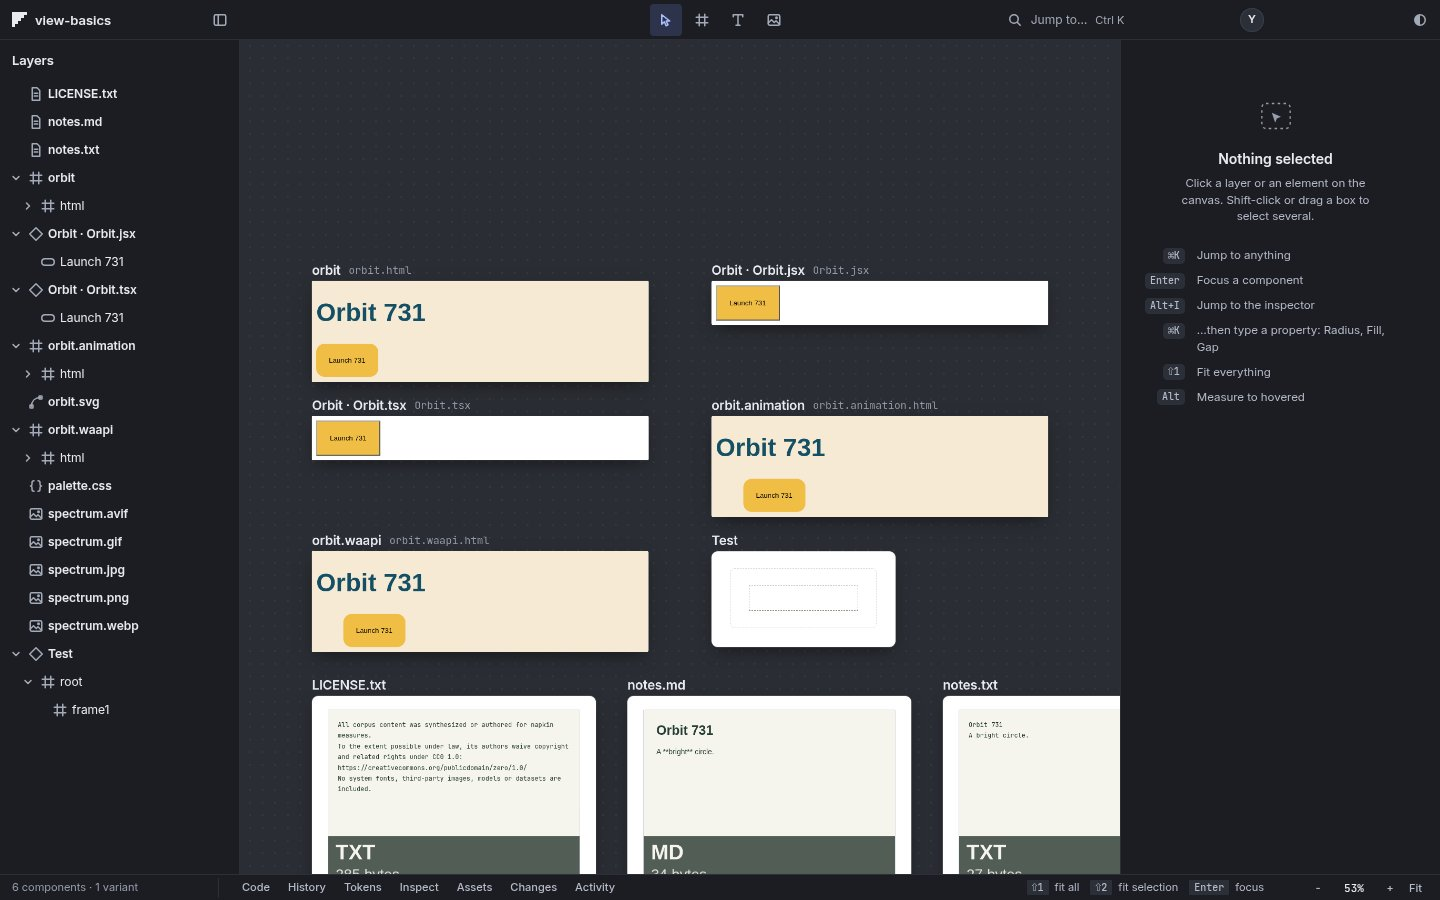
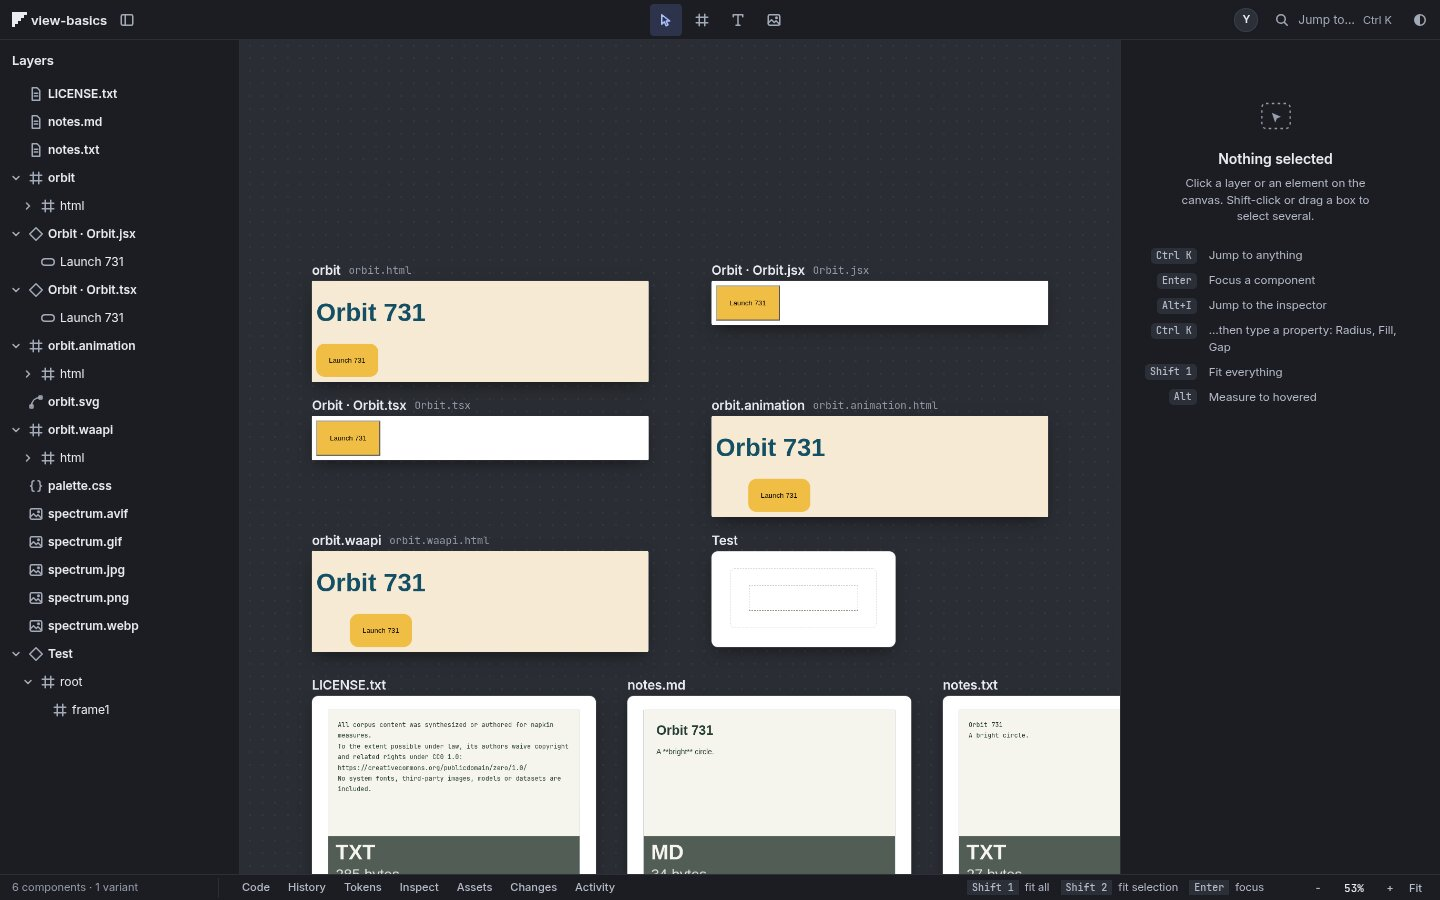
basics pass 1b: right group [people][Jump to][theme], panel button after the folder name, platform key labels
- Top bar right: one right-aligned group flush to the bar padding, the tools' 4 px gap: avatars (overlapping, +N past five),
  Jump to... (control height), theme. No reserved slots; the revision appears at the left end only with a selection.
- Left: glyph, folder name, panel toggle at the same tight gap, panel open or collapsed.
- keylabel.js: one helper for key labels (Ctrl K / Shift 1 on Linux and Windows, symbols on macOS), used by the bar,
  tooltips, layers menu, right-panel hints, status bar, history and legend.
- Screenshots in docs/basics/pass1 retaken.

diff --git a/public/canvas/canvas.css b/public/canvas/canvas.css
@@ -132,14 +132,14 @@ code:where(:not(:is(.mount, .preview-inner) *)) { font-family: var(--nk-mono); }
   grid-area: top; display: grid; grid-template-columns: minmax(max-content, 1fr) auto minmax(max-content, 1fr); align-items: center; column-gap: var(--nk-s4);
   height: var(--nk-h-bar); min-width: 0; padding: 0 var(--nk-s1); /* even sides, so the tools sit on the window's centre line */ background: var(--nk-panel); border-bottom: var(--nk-border);
 }
-.bar-left { display: flex; align-items: center; gap: var(--nk-s2); width: calc(var(--nk-left-w) - 2 * var(--nk-s1)); min-width: 0; padding-left: var(--nk-s2); }
-.brand { display: flex; align-items: center; gap: var(--nk-s2); flex: 1; min-width: 0; margin: 0; font: var(--nk-w-strong) var(--nk-fs-title)/var(--nk-lh-loose) var(--nk-sans); color: var(--nk-ink); }
+.bar-left { display: flex; align-items: center; gap: var(--nk-s1); min-width: 0; padding-left: var(--nk-s2); } /* the panel button follows the folder name, the tools' gap apart, open or closed */
+.brand { display: flex; align-items: center; gap: var(--nk-s1); flex: 0 1 auto; min-width: 0; max-width: calc(var(--nk-left-w) - var(--nk-h-control) - var(--nk-s3)); margin: 0; font: var(--nk-w-strong) var(--nk-fs-title)/var(--nk-lh-loose) var(--nk-sans); color: var(--nk-ink); }
 .brand .glyph { flex: none; color: var(--nk-ink); }
 #folder { min-width: 0; overflow: hidden; text-overflow: ellipsis; white-space: nowrap; }
 #toolbar { display: flex; align-items: center; gap: var(--nk-s1); justify-self: center; min-width: calc(4 * var(--nk-h-control) + 3 * var(--nk-s1)); } /* sized before tools.js fills it: the bar never shifts on load */
-.top-right { display: flex; align-items: center; justify-content: flex-end; gap: var(--nk-s2); min-width: 0; }
+.top-right { display: flex; align-items: center; justify-content: flex-end; gap: var(--nk-s1); min-width: 0; } /* the tools' gap */
 #quick-open {
-  display: inline-flex; align-items: center; gap: var(--nk-s2); height: var(--nk-h-control); padding: 0 var(--nk-s2); margin-right: var(--nk-s2);
+  display: inline-flex; align-items: center; gap: var(--nk-s2); height: var(--nk-h-control); padding: 0 var(--nk-s2);
   border: 0; border-radius: var(--nk-radius); background: transparent; color: var(--nk-ink-muted); font: var(--nk-w-regular) var(--nk-fs-body)/var(--nk-lh-tight) var(--nk-sans);
   transition: background-color var(--nk-motion) var(--nk-ease), color var(--nk-motion) var(--nk-ease);
 }
@@ -149,10 +149,10 @@ code:where(:not(:is(.mount, .preview-inner) *)) { font-family: var(--nk-mono); }
 .meta { display: inline-flex; align-items: baseline; gap: var(--nk-s1); color: var(--nk-ink-muted); font: var(--nk-w-regular) var(--nk-fs-label)/var(--nk-lh-tight) var(--nk-sans); white-space: nowrap; }
 .meta[hidden] { display: none; }
 .meta code { display: inline-block; min-width: 9ch; color: var(--nk-ink-muted); font: var(--nk-w-regular) var(--nk-fs-label)/var(--nk-lh-tight) var(--nk-mono); }
-.slot { display: flex; align-items: center; justify-content: flex-start; gap: var(--nk-s2); flex: 0 1 calc(5 * var(--nk-h-control)); min-width: var(--nk-h-control); }
-/* presence has a fixed place: people arriving fill it left to right, so Jump to... and the revision never move */
-#avatars { max-width: 100%; overflow: hidden; }
-.top-right .meta[hidden] { display: inline-flex; visibility: hidden; } /* nothing selected: the revision keeps its place, so Jump to... never moves */
+/* one right-aligned group, the tools' gap apart: [rev] [people] [Jump to...] [theme]. Whatever comes and goes (the revision with a
+   selection, people joining, up to five avatars then +N) sits at the left end and grows into free space; Jump to... never moves.
+   The slot only carries the live region and the avatars into the group. */
+.slot { display: contents; }
 #token-theme-label { display: inline-flex; align-items: center; gap: var(--nk-s2); color: var(--nk-ink-muted); font: var(--nk-w-regular) var(--nk-fs-label)/var(--nk-lh-tight) var(--nk-sans); white-space: nowrap; }
 #token-theme-label[hidden] { display: none; }
 #token-theme { height: var(--nk-h-field); padding: 0 var(--nk-s1); border: var(--nk-border); border-radius: var(--nk-radius); background: var(--nk-panel); color: var(--nk-ink); font: var(--nk-w-regular) var(--nk-fs-body) var(--nk-sans); }
@@ -218,7 +218,7 @@ body[data-left="closed"] #sidebar { visibility: hidden; border-right-width: 0; }
 
 /* The top bar at 720 to 1100 px: the jump field gives up its words, then the revision goes. Nothing wraps. */
 @media (max-width: 1100px) { #quick-open span, #quick-open kbd { display: none; } #quick-open { width: var(--nk-h-control); padding: 0; justify-content: center; margin-right: 0; } }
-@media (max-width: 860px) { .top-right .meta, .top-right .meta[hidden] { display: none; } }
+@media (max-width: 860px) { .top-right .meta { display: none; } }
 
 /* ---- the canvas ---- */
 #stage {

diff --git a/public/index.html b/public/index.html
@@ -28,13 +28,13 @@
   <header id="topbar">
     <div class="bar-left">
       <h1 class="brand"><svg class="glyph" viewBox="0 0 20 20" width="15" height="15" shape-rendering="crispEdges" aria-hidden="true" fill="currentColor"><path d="M0 0h20v4H0zM0 4h16v4H0zM0 8h12v4H0zM0 12h8v4H0zM0 16h4v4H0z"/></svg><span class="sr-only">napkin: </span><span id="folder">components</span></h1>
-      <button type="button" class="icon-btn" id="panel-toggle" aria-controls="sidebar" aria-expanded="true" aria-keyshortcuts="Control+Backslash" aria-label="Layers panel" data-tip="Hide layers" data-key="Ctrl \"><svg class="ico" viewBox="0 0 16 16" width="16" height="16" aria-hidden="true"><rect x="2.25" y="2.75" width="11.5" height="10.5" rx="1.5"/><path d="M6.25 2.75v10.5"/></svg></button>
+      <button type="button" class="icon-btn" id="panel-toggle" aria-controls="sidebar" aria-expanded="true" aria-keyshortcuts="Control+Backslash" aria-label="Layers panel" data-tip="Hide layers" data-key="Ctrl+\"><svg class="ico" viewBox="0 0 16 16" width="16" height="16" aria-hidden="true"><rect x="2.25" y="2.75" width="11.5" height="10.5" rx="1.5"/><path d="M6.25 2.75v10.5"/></svg></button>
     </div>
     <div id="toolbar"></div>
     <div class="top-right">
-      <button type="button" id="quick-open" aria-haspopup="dialog" aria-keyshortcuts="Control+K Meta+K"><svg class="ico" viewBox="0 0 16 16" width="16" height="16" aria-hidden="true"><circle cx="7" cy="7" r="4.25"/><path d="m10.25 10.25 3 3"/></svg><span>Jump to…</span><kbd>Ctrl K</kbd></button>
-      <span class="meta" title="The selected file’s revision">rev <code id="revision">…</code></span>
+      <span class="meta" hidden title="The selected file’s revision">rev <code id="revision">…</code></span>
       <span class="slot"><span id="agent-status" hidden>agent connected</span><span id="presence" role="status" aria-live="polite"></span></span>
+      <button type="button" id="quick-open" aria-haspopup="dialog" aria-keyshortcuts="Control+K Meta+K"><svg class="ico" viewBox="0 0 16 16" width="16" height="16" aria-hidden="true"><circle cx="7" cy="7" r="4.25"/><path d="m10.25 10.25 3 3"/></svg><span>Jump to…</span><kbd data-keys="Mod+K">Ctrl K</kbd></button>
       <button type="button" class="icon-btn" id="theme-toggle" aria-label="Switch chrome theme" data-tip="Light or dark chrome"><svg class="ico" viewBox="0 0 16 16" width="16" height="16" aria-hidden="true"><circle cx="8" cy="8" r="5.25"/><path d="M8 2.75a5.25 5.25 0 0 0 0 10.5z" fill="currentColor" stroke="none"/></svg></button>
     </div>
   </header>
@@ -63,12 +63,12 @@
   <footer id="statusbar">
     <span id="counts" aria-live="off"></span>
     <span id="drawer-tabs" role="group" aria-label="Panels"></span>
-    <span class="hints"><span class="h"><kbd>⇧1</kbd> fit all</span> <span class="h"><kbd>⇧2</kbd> fit selection</span> <span class="h"><kbd>Enter</kbd> focus</span></span>
+    <span class="hints"><span class="h"><kbd data-keys="Shift+1">Shift 1</kbd> fit all</span> <span class="h"><kbd data-keys="Shift+2">Shift 2</kbd> fit selection</span> <span class="h"><kbd>Enter</kbd> focus</span></span>
     <span class="zoomctl" role="group" aria-label="Zoom">
       <button type="button" id="zoom-out" aria-label="Zoom out" title="Zoom out (−)">−</button>
-      <button type="button" id="zoom-level" aria-label="Zoom level, click for 100%" title="Zoom to 100% (⇧0)">100%</button>
+      <button type="button" id="zoom-level" aria-label="Zoom level, click for 100%" title="Zoom to 100% ({k})" data-title-keys="Shift+0">100%</button>
       <button type="button" id="zoom-in" aria-label="Zoom in" title="Zoom in (+)">+</button>
-      <button type="button" id="zoom-fit" aria-label="Fit all" title="Fit all (⇧1)">Fit</button>
+      <button type="button" id="zoom-fit" aria-label="Fit all" title="Fit all ({k})" data-title-keys="Shift+1">Fit</button>
     </span>
   </footer>
   <script src="/canvas/early.js"></script>

diff --git a/public/canvas/layers.js b/public/canvas/layers.js
@@ -1,5 +1,6 @@
 // The layers tree (CAN-04): every component, and under it the JSX tree of its nodes, as the file has it.
 // Selection syncs both ways. Rename (F2 / double-click) is one `rename` edit; dragging a row is one `move`.
+import { keyLabel } from './keylabel.js';
 import { index, VOID } from '/src/model.js';
 
 const esc = (s) => String(s).replace(/[&<>"]/g, (c) => ({ '&': '&amp;', '<': '&lt;', '>': '&gt;', '"': '&quot;' })[c]);
@@ -171,7 +172,7 @@ export function initLayers(ctx, el) {
     const isRoot = c?.doc?.root.id === row.dataset.node, ro = !!c?.readOnly;
     const hid = (c?.doc && index(c.doc).byId.get(row.dataset.node)?.style?.visibility === 'hidden');
     const off = (why) => (ro || why ? ` disabled title="${why || 'This file is read-only'}"` : '');
-    menu.innerHTML = `<button type="button" role="menuitem" data-do="rename"${off('')}>Rename<kbd>F2</kbd></button><button type="button" role="menuitem" data-do="duplicate"${off(isRoot ? "The root can't be duplicated" : '')}>Duplicate<kbd>⌘D</kbd>${isRoot ? '<small>The root can’t be duplicated</small>' : ''}</button><button type="button" role="menuitem" data-do="copy"${isRoot ? ' disabled title="The root can\'t be copied"' : ''}>Copy<kbd>⌘C</kbd></button><button type="button" role="menuitem" data-do="hide"${off('')}>${hid ? 'Show' : 'Hide'}</button><button type="button" role="menuitem" data-do="delete"${off(isRoot ? "The root can't be deleted" : '')}>Delete${isRoot ? '<small>The root can’t be deleted</small>' : '<kbd>⌫</kbd>'}</button>`;
+    menu.innerHTML = `<button type="button" role="menuitem" data-do="rename"${off('')}>Rename<kbd>F2</kbd></button><button type="button" role="menuitem" data-do="duplicate"${off(isRoot ? "The root can't be duplicated" : '')}>Duplicate<kbd>${keyLabel('Mod+D')}</kbd>${isRoot ? '<small>The root can’t be duplicated</small>' : ''}</button><button type="button" role="menuitem" data-do="copy"${isRoot ? ' disabled title="The root can\'t be copied"' : ''}>Copy<kbd>${keyLabel('Mod+C')}</kbd></button><button type="button" role="menuitem" data-do="hide"${off('')}>${hid ? 'Show' : 'Hide'}</button><button type="button" role="menuitem" data-do="delete"${off(isRoot ? "The root can't be deleted" : '')}>Delete${isRoot ? '<small>The root can’t be deleted</small>' : '<kbd>' + keyLabel('Backspace') + '</kbd>'}</button>`;
     const r = btn.getBoundingClientRect();
     Object.assign(menu.style, { left: `${r.right - 164}px`, top: `${r.bottom + 4}px` });
     menu.dataset.component = row.dataset.component; menu.dataset.node = row.dataset.node;
@@ -185,7 +186,7 @@ export function initLayers(ctx, el) {
     else if (b.dataset.do === 'cdelete') ctx.cmpOps.remove(component, { fromRow: true });
     else if (b.dataset.do === 'rename') { const r = el.querySelector(`.lrow[data-component="${CSS.escape(component)}"][data-node="${CSS.escape(node)}"]`); if (r) startRename(r); }
     else if (b.dataset.do === 'duplicate') await ctx.ops.duplicate();
-    else if (b.dataset.do === 'copy') { try { document.execCommand('copy'); } catch {} ctx.hint('Copied. Paste into any component with ⌘V'); }
+    else if (b.dataset.do === 'copy') { try { document.execCommand('copy'); } catch {} ctx.hint('Copied. Paste into any component with ' + keyLabel('Mod+V')); }
     else if (b.dataset.do === 'hide') await ctx.ops.hide();
     else if (b.dataset.do === 'delete') await ctx.sendEdits(component, [{ op: 'delete', id: node }]);
   });

diff --git a/test/basics/shell.test.js b/test/basics/shell.test.js
@@ -74,8 +74,26 @@ test('basics pass 1: the top bar has three zones in order, four tools on the cen
     assert.equal(await b.eval(`document.querySelector('#tip').textContent`), 'FrameF');
     await io.key('Escape');
     assert.equal(await b.eval(`document.querySelector('#tip').hidden`), true, 'Escape hides the tooltip');
-    // the right zone: Jump to..., status, theme; nothing else
-    assert.deepEqual(JSON.parse(await b.eval(`JSON.stringify([...document.querySelectorAll('.top-right > *')].filter((e) => e.getBoundingClientRect().width && getComputedStyle(e).visibility === 'visible').map((e) => e.id || e.className))`)), ['quick-open', 'slot', 'theme-toggle']);
+    // the right zone: one right-aligned group, flush to the bar's padding, the tools' gap: [people] [Jump to...] [theme]; the revision only with a selection, at the left end
+    const group = () => b.eval(`JSON.stringify([...document.querySelectorAll('.top-right > *, .top-right .slot > *')].filter((e) => e.getBoundingClientRect().width && getComputedStyle(e).display !== 'contents').map((e) => { const r = e.getBoundingClientRect(); return { n: e.id || e.className, l: r.left, r: r.right }; }))`).then(JSON.parse);
+    let g = await group();
+    assert.deepEqual(g.map((x) => x.n), ['avatars', 'quick-open', 'theme-toggle']);
+    const jump = g[1].l;
+    assert.equal(g.at(-1).r, 1440 - 4, 'flush to the bar padding');
+    assert.deepEqual(g.slice(1).map((x, i) => x.l - g[i].r), [4, 4], 'the gap of the tools');
+    assert.equal(await b.eval(`document.querySelector('#quick-open kbd').textContent`), 'Ctrl K', 'Linux says Ctrl, not the Command sign');
+    assert.match(await b.eval(`document.querySelector('#panel .keys').textContent`), /Ctrl K/, 'the right-panel hints too');
+    assert.doesNotMatch(await b.eval(`document.querySelector('#panel .keys').textContent + document.querySelector('#statusbar').textContent`), /[⌘⇧⌫]/);
+    await b.eval(`napkin.select({ component: napkin.find('Card').component, node: 'title', variant: {} })`); await sleep(200);
+    g = await group();
+    assert.deepEqual(g.map((x) => x.n), ['meta', 'avatars', 'quick-open', 'theme-toggle'], 'the revision joins at the left end');
+    assert.equal(g[2].l, jump, 'and Jump to... stays put');
+    // the panel button follows the folder name, the tools' gap apart, open or closed
+    for (const state of ['open', 'closed']) {
+      const gap = await b.eval(`document.querySelector('#panel-toggle').getBoundingClientRect().left - document.querySelector('.brand').getBoundingClientRect().right`);
+      assert.equal(gap, 4, `toggle after the folder name (${state})`);
+      await b.eval(`napkin.shell.toggleLeft()`);
+    }
     await b.eval(`document.activeElement.blur()`);
   } finally { await close(); }
 });

diff --git a/public/canvas/shell.js b/public/canvas/shell.js
@@ -1,11 +1,12 @@
 // The shell around the canvas (basics pass 1, docs/basics/standards.md sections 1 and 6): the chrome tooltip and the left panel's
-// collapse. A control with data-tip shows its name (and data-key, its key) after 500 ms of hover, or at once on keyboard focus;
+// collapse. A control with data-tip shows its name (and data-key, its key, as a keylabel.js spec) after 500 ms of hover, or at once on keyboard focus;
 // Escape hides it. The left panel collapses with the bar's panel button or Ctrl+\ (commands.js runs the binding); the canvas takes
 // the width, the picture stays under the same pixels (no animated slide: a moving canvas is harder to follow than a still one),
 // and the choice is remembered.
 //   initShell(ctx) -> ctx.shell = { toggleLeft(open?), leftOpen() }
+import { keyLabel, relabel } from './keylabel.js';
+
 const HOVER_MS = 500;
-const mac = /Mac|iPhone|iPad/.test(navigator.platform || navigator.userAgent);
 
 export function initShell(ctx) {
   const body = document.body, toggle = document.querySelector('#panel-toggle'), side = document.querySelector('#sidebar');
@@ -15,13 +16,12 @@ export function initShell(ctx) {
   tip.id = 'tip'; tip.hidden = true; tip.setAttribute('aria-hidden', 'true'); // the control's own name and aria-keyshortcuts carry this for a screen reader
   body.append(tip);
   let timer = 0, owner = null;
-  const keyText = (k) => (mac ? k.replace(/^Ctrl K$/, '⌘K') : k);
   function show(el) {
     clearTimeout(timer);
     owner = el;
     const key = el.dataset.key;
     tip.replaceChildren(document.createTextNode(el.dataset.tip));
-    if (key) { const k = document.createElement('kbd'); k.textContent = keyText(key); tip.append(k); }
+    if (key) { const k = document.createElement('kbd'); k.textContent = keyLabel(key); tip.append(k); }
     tip.hidden = false;
     const r = el.getBoundingClientRect(), w = tip.offsetWidth;
     tip.style.left = `${Math.round(Math.max(8, Math.min(innerWidth - w - 8, r.left + r.width / 2 - w / 2)))}px`;
@@ -39,8 +39,7 @@ export function initShell(ctx) {
   document.addEventListener('focusin', (ev) => { const el = tipped(ev.target); if (el && el === ev.target && el.matches(':focus-visible')) show(el); else if (owner) hide(); });
   document.addEventListener('focusout', () => { if (owner && !owner.matches(':hover')) hide(); });
   document.addEventListener('keydown', (ev) => { if (ev.key === 'Escape' && !tip.hidden) hide(); });
-  const qk = document.querySelector('#quick-open kbd');
-  if (qk && mac) qk.textContent = '⌘K';
+  relabel(document); // the bar's and the status bar's static key labels follow the platform
 
   // ---- the left panel ----
   let open = true;

diff --git a/public/canvas/panel.js b/public/canvas/panel.js
@@ -4,6 +4,7 @@
 // Every control still writes CSS through ctx.sendEdits: one `set` per property, and one batch per change
 // (several selected nodes = one revision). The panel never writes files. Text typed into a field survives a
 // rebuild (ui.draft) until it is saved.
+import { keyLabel } from './keylabel.js';
 import { plain, stripNext } from './words.js';
 import { renderDocPanel } from './doc-panel.js';
 import { index, axes, resolveStyle, propOf } from '/src/model.js';
@@ -208,7 +209,7 @@ export function renderPanel(ctx) {
   if (!node) {
     el.innerHTML = `<div class="empty-panel"><svg viewBox="0 0 48 48" width="40" height="40" aria-hidden="true"><rect x="7" y="9" width="34" height="30" rx="5" fill="none" stroke="currentColor" stroke-width="1.6" stroke-dasharray="3 4"/><path d="M19 20l11 5-5 2-2 5z" fill="currentColor"/></svg>
       <h2>Nothing selected</h2><p class="hint">Click a layer or an element on the canvas. Shift-click or drag a box to select several.</p>
-      <dl class="keys"><dt><kbd>⌘K</kbd></dt><dd>Jump to anything</dd><dt><kbd>Enter</kbd></dt><dd>Focus a component</dd><dt><kbd>Alt+I</kbd></dt><dd>Jump to the inspector</dd><dt><kbd>⌘K</kbd></dt><dd>…then type a property: Radius, Fill, Gap</dd><dt><kbd>⇧1</kbd></dt><dd>Fit everything</dd><dt><kbd>Alt</kbd></dt><dd>Measure to hovered</dd></dl></div>`;
+      <dl class="keys"><dt><kbd>${keyLabel('Mod+K')}</kbd></dt><dd>Jump to anything</dd><dt><kbd>Enter</kbd></dt><dd>Focus a component</dd><dt><kbd>Alt+I</kbd></dt><dd>Jump to the inspector</dd><dt><kbd>${keyLabel('Mod+K')}</kbd></dt><dd>…then type a property: Radius, Fill, Gap</dd><dt><kbd>${keyLabel('Shift+1')}</kbd></dt><dd>Fit everything</dd><dt><kbd>Alt</kbd></dt><dd>Measure to hovered</dd></dl></div>`;
     return;
   }
   const selKey = `${sel.component}|${JSON.stringify(sel.variant)}`;

diff --git a/public/canvas/history.js b/public/canvas/history.js
@@ -1,6 +1,7 @@
 // HIS-01..03 on the page: Cmd/Ctrl+Z and Shift+Cmd+Z undo and redo YOUR edits (the server keeps one stack per caller and
 // refuses with who and which revision when someone else changed the same property), and the History tab: a timeline of
 // revisions per component, scrub to preview an older state read-only on the canvas, Restore = one new revision.
+import { keyLabel } from './keylabel.js';
 import { plain } from './words.js';
 import { h } from './drawer.js';
 
@@ -188,8 +189,8 @@ export function initHistory(ctx, drawer) {
     pane.append(
       h('div', { class: 'h-bar' },
         who,
-        h('button', { type: 'button', id: 'h-undo', title: 'Undo your last edit (⌘Z)', text: 'Undo', onclick: () => step('undo', S.component) }),
-        h('button', { type: 'button', id: 'h-redo', title: 'Redo (⇧⌘Z)', text: 'Redo', onclick: () => step('redo', S.component) }),
+        h('button', { type: 'button', id: 'h-undo', title: `Undo your last edit (${keyLabel('Mod+Z')})`, text: 'Undo', onclick: () => step('undo', S.component) }),
+        h('button', { type: 'button', id: 'h-redo', title: `Redo (${keyLabel('Shift+Mod+Z')})`, text: 'Redo', onclick: () => step('redo', S.component) }),
         h('label', { class: 'h-scrub' }, h('span', { text: 'older' }), slider, h('span', { text: 'now' })),
         h('button', { type: 'button', id: 'h-back', text: 'Back to now', onclick: () => exitPreview() }),
         h('button', { type: 'button', id: 'h-restore', class: 'primary', text: 'Restore this', onclick: askRestore }),

diff --git a/public/canvas/keylabel.js b/public/canvas/keylabel.js
@@ -1,0 +1,18 @@
+// Key labels follow the platform: one helper for every key the shell shows (top bar, tooltips, layers menu, right-panel hints,
+// status bar). A key is written once as a spec, "Mod+K", "Shift+1", "Ctrl+\", "Backspace"; Mod is Command on a Mac and Ctrl
+// elsewhere. On a Mac the label is the symbols (⌘K, ⇧1, ⌃\, ⌫); elsewhere the words (Ctrl K, Shift 1, Ctrl \, Backspace).
+//   keyLabel(spec) -> string; relabel(root) fills [data-keys] (text) and [data-title-keys] (the {k} in title) under root
+export const MAC = typeof navigator !== 'undefined' && /Mac|iPhone|iPad/.test(navigator.platform || navigator.userAgent);
+const SYM = { Mod: '⌘', Shift: '⇧', Alt: '⌥', Ctrl: '⌃', Backspace: '⌫' };
+const WORD = { Mod: 'Ctrl' };
+export function keyLabel(spec, mac = MAC) {
+  const parts = String(spec).split(/\+(?!$)/); // "Ctrl++" keeps its plus
+  return mac ? parts.map((p) => SYM[p] ?? p).join('') : parts.map((p) => WORD[p] ?? p).join(' ');
+}
+export function relabel(root = document) {
+  for (const el of root.querySelectorAll('[data-keys]')) el.textContent = keyLabel(el.dataset.keys);
+  for (const el of root.querySelectorAll('[data-title-keys]')) {
+    el.dataset.titleTpl ??= el.getAttribute('title') || '';
+    el.title = el.dataset.titleTpl.replace('{k}', keyLabel(el.dataset.titleKeys));
+  }
+}

diff --git a/public/canvas/legend.js b/public/canvas/legend.js
@@ -1,6 +1,8 @@
 // The status bar says what the keys do right now, in one place. A piece of the product that takes over the keys pushes its
 // legend under a name and pops it when it is done; the newest one shows; with none, the canvas's own keys show.
 //   initLegend(ctx) -> ctx.legend = { push(name, [[key, words], ...]), pop(name), read() }
+import { keyLabel } from './keylabel.js';
+
 export function initLegend(ctx) {
   const host = document.querySelector('#statusbar .hints');
   const home = host?.innerHTML ?? '';
@@ -17,6 +19,6 @@ export function initLegend(ctx) {
     if (ctx.keyGuard) { ev.stopImmediatePropagation(); ctx.keyGuard(ev); return; }
     if (ev.key === 'Escape' && !ev.isComposing && ctx.inspector?.state?.() && !document.body.dataset.modal) { ev.preventDefault(); ev.stopImmediatePropagation(); ctx.inspector.cancel(); }
   }, true);
-  ctx.on('highlight', (h) => { if (h && !h.quiet) ctx.legend.push('highlight', [['Tab', 'next place'], ['⇧Tab', 'back'], ['Esc', 'done']]); else ctx.legend.pop('highlight'); });
+  ctx.on('highlight', (h) => { if (h && !h.quiet) ctx.legend.push('highlight', [['Tab', 'next place'], [keyLabel('Shift+Tab'), 'back'], ['Esc', 'done']]); else ctx.legend.pop('highlight'); });
   return ctx.legend;
 }
